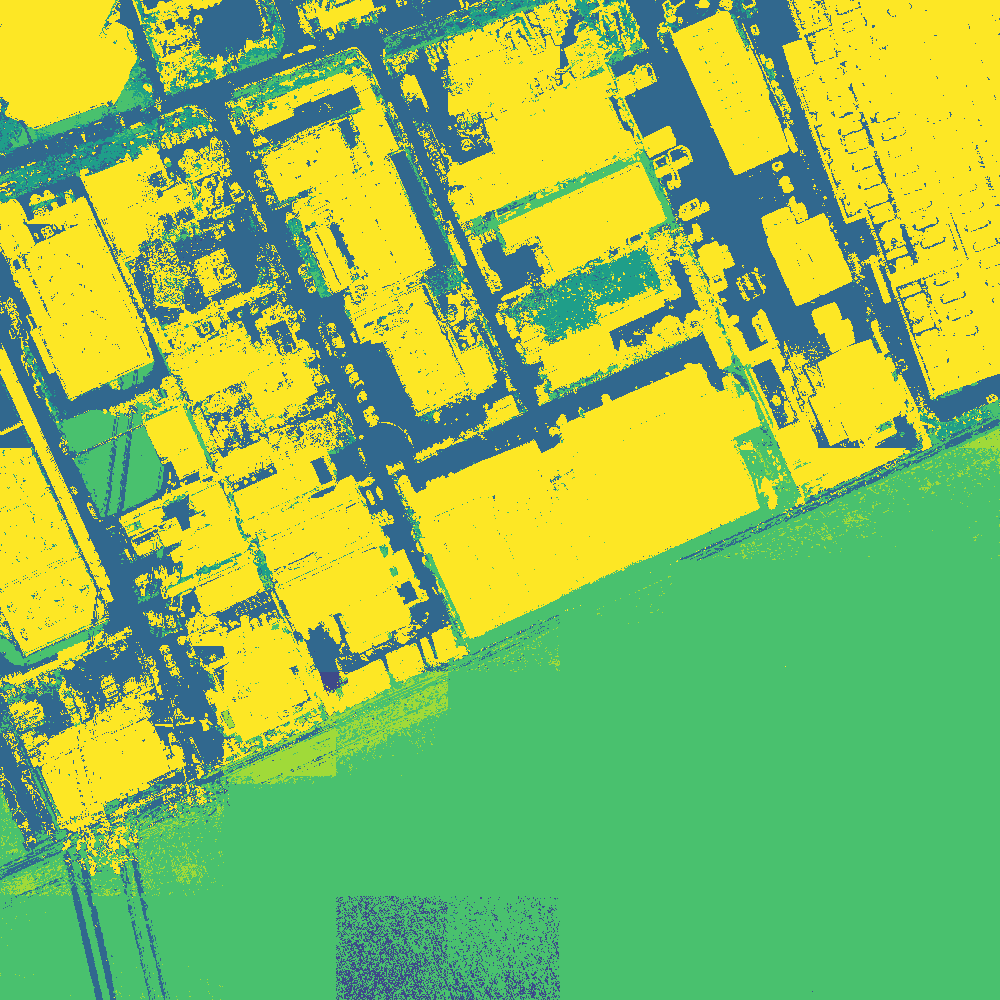
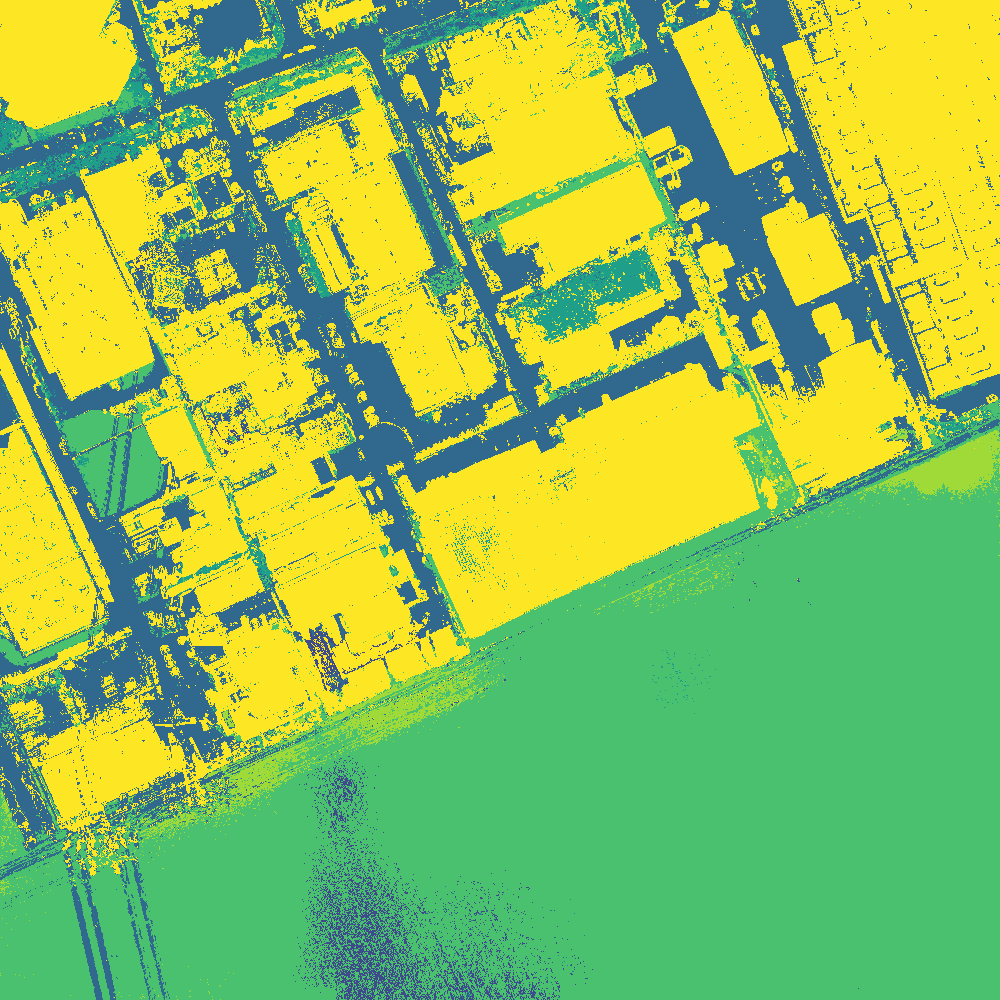
emmm

diff --git a/dino_splat_ov/splat.py b/dino_splat_ov/splat.py
@@ -11,6 +11,61 @@ from torchvision.transforms import Normalize, ToTensor
 from scipy.ndimage import median_filter
 
 # =========================
+# 新增：基于DINO亲和力的图拉普拉斯平滑（LPOSS思路）
+# =========================
+def graph_laplacian_smooth(
+    logits: torch.Tensor,
+    features: torch.Tensor,
+    num_iter: int = 3,
+    alpha: float = 0.6,
+    temperature: float = 0.1,
+    kernel_size: int = 3
+) -> torch.Tensor:
+    """
+    基于DINO视觉特征亲和力的迭代式图拉普拉斯平滑（等价于标签传播）
+    对应LPOSS中用DINO特征做语义正则化的核心逻辑，仅在低分辨率patch阶段执行
+    Args:
+        logits: 初始分割logits [C, H, W]
+        features: DINO归一化视觉特征 [D, H, W]
+        num_iter: 平滑迭代次数
+        alpha: 原始logits保留权重，越大平滑越弱
+        temperature: 相似度温度，越小边缘保留越好
+        kernel_size: 局部邻域大小，默认3即8邻域
+    Returns:
+        smoothed_logits: 平滑后logits [C, H, W]
+    """
+    C, H, W = logits.shape
+    pad = kernel_size // 2
+
+    # 镜像填充避免边缘失真
+    feat_pad = F.pad(features.unsqueeze(0), (pad, pad, pad, pad), mode="reflect").squeeze(0)
+    
+    # 提取邻域特征块 [D, K², H, W]
+    feat_unfold = F.unfold(feat_pad.unsqueeze(0), kernel_size=kernel_size, padding=0)
+    feat_unfold = feat_unfold.reshape(features.shape[0], kernel_size * kernel_size, H, W)
+
+    # 计算中心-邻域余弦相似度（特征已归一化，点积即余弦）
+    similarity = torch.einsum("dnhw,dhw->nhw", feat_unfold, features)  # [K², H, W]
+    
+    # 温度缩放得到亲和力权重，行归一化
+    affinity = torch.exp(similarity / temperature)
+    affinity = affinity / affinity.sum(dim=0, keepdim=True)  # [K², H, W]
+
+    # 迭代式拉普拉斯平滑
+    current_logits = logits.clone()
+    for _ in range(num_iter):
+        current_pad = F.pad(current_logits.unsqueeze(0), (pad, pad, pad, pad), mode="reflect").squeeze(0)
+        current_unfold = F.unfold(current_pad.unsqueeze(0), kernel_size=kernel_size, padding=0)
+        current_unfold = current_unfold.reshape(C, kernel_size * kernel_size, H, W)
+
+        # 邻域加权平均
+        neighbor_avg = torch.einsum("cnhw,nhw->chw", current_unfold, affinity)
+        # 更新：保留原始信息 + 邻域平滑
+        current_logits = alpha * current_logits + (1 - alpha) * neighbor_avg
+
+    return current_logits
+
+# =========================
 # DINOv3
 # =========================
 root_path = Path(__file__).parent.parent
@@ -34,7 +89,7 @@ model = model.to(device).eval()
 # =========================
 # 2. 输入图像和类别分组
 # =========================
-image_path = "asset/img3.jpg"
+image_path = "asset/img.jpg"
 image = Image.open(image_path).convert("RGB")
 orig_w, orig_h = image.size
 H_img, W_img = orig_h, orig_w
@@ -151,6 +206,18 @@ with torch.no_grad():
             group_logit = weighted_sum / sum(weights)
             merged_logits.append(group_logit.unsqueeze(1))
         logits = torch.cat(merged_logits, dim=1)  # [1, num_classes, h, w]
+
+        # =========================
+        # 新增：DINO亲和力图拉普拉斯平滑（LPOSS思路）
+        # =========================
+        logits_smooth = graph_laplacian_smooth(
+            logits=logits.squeeze(0),      # [num_classes, h, w]
+            features=img_feat.squeeze(0),  # [D, h, w] 复用DINOv3原生patch特征
+            num_iter=3,
+            alpha=0.6,
+            temperature=0.1
+        )
+        logits = logits_smooth.unsqueeze(0)  # 恢复 [1, num_classes, h, w] 维度，后续逻辑完全不变
 
         # --- 方案4：用 Gaussian JBU 上采样 logits ---
         logits_lr = rearrange(logits[0], "c h w -> (h w) c").unsqueeze(0)  # [1, h*w, num_classes]
